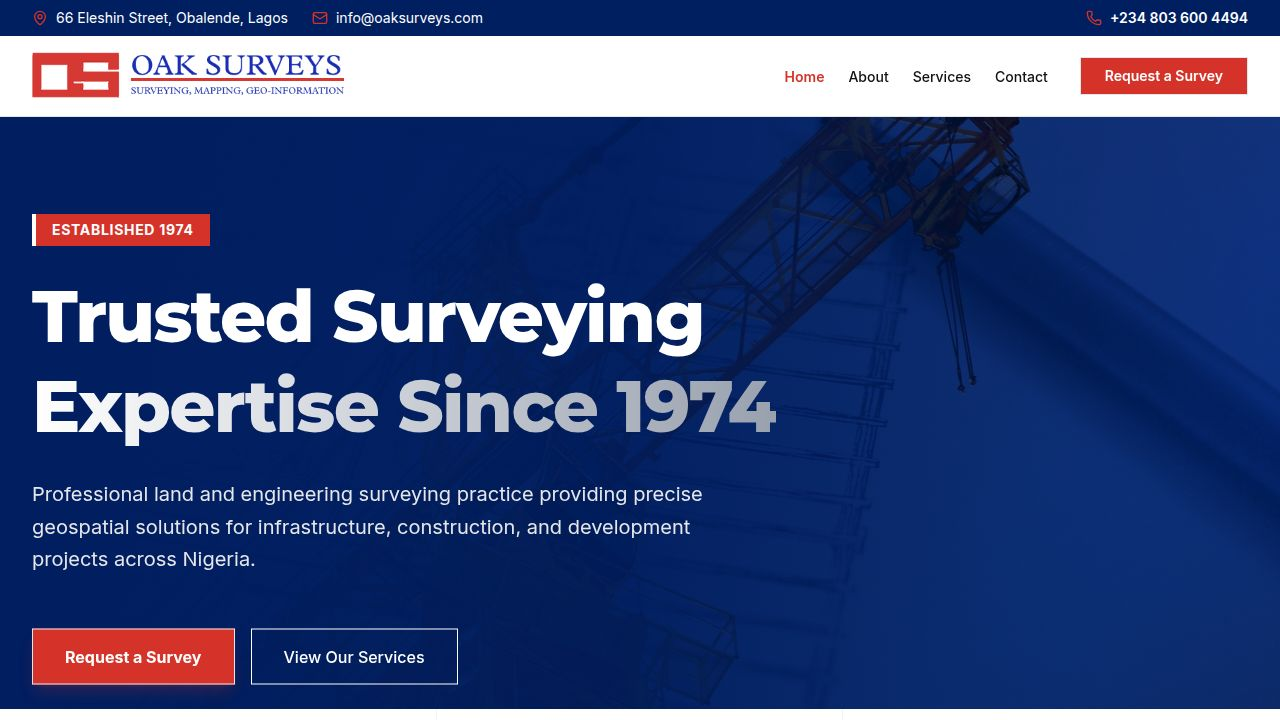
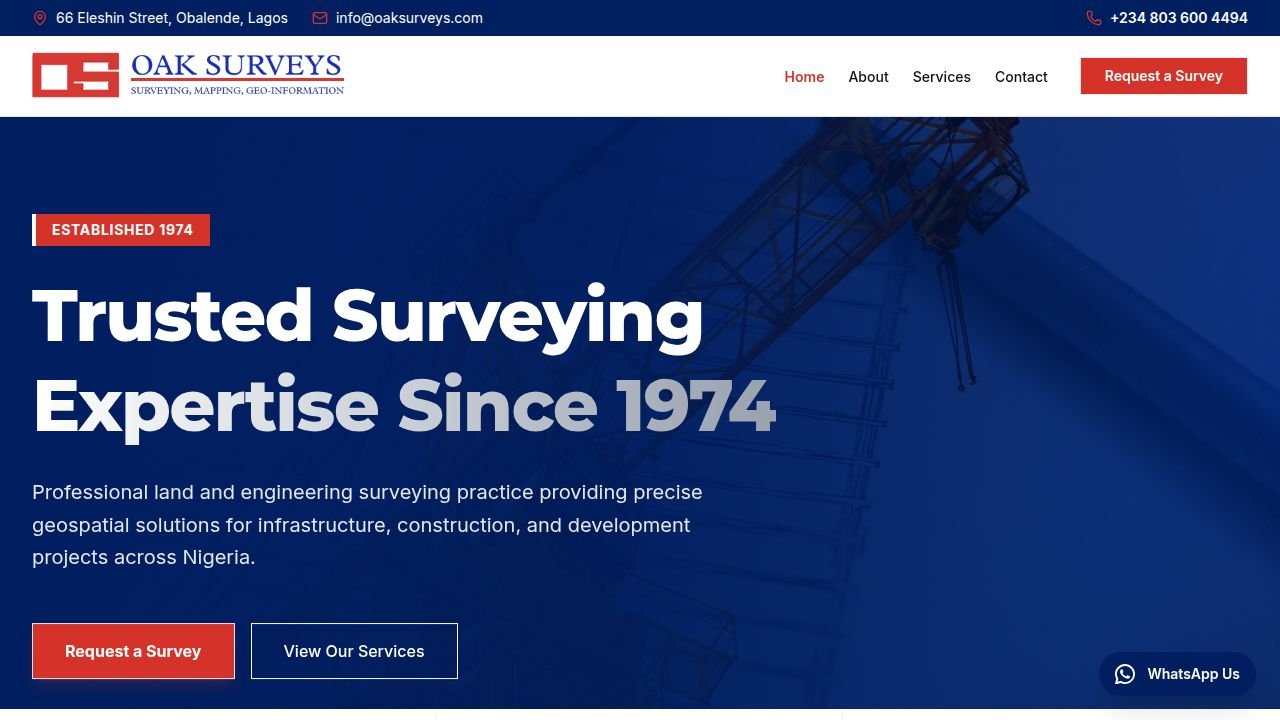
Update WhatsApp button styling for mobile and branding
Modify the WhatsApp button component to use a white icon, hide the text label on mobile devices, and ensure it aligns with the brand's color palette.

Replit-Commit-Author: Agent
Replit-Commit-Session-Id: e02cc839-bc37-4c7a-b699-28d2d8b55a1e
Replit-Commit-Checkpoint-Type: full_checkpoint
Replit-Commit-Event-Id: 5d697ba4-47f4-4b48-aa95-15f5fc0b9cb8
Replit-Commit-Screenshot-Url: https://storage.googleapis.com/screenshot-production-us-central1/37282cf5-2360-49fc-a2cd-0b220441129e/e02cc839-bc37-4c7a-b699-28d2d8b55a1e/VMwbjFY
Replit-Helium-Checkpoint-Created: true

diff --git a/client/src/components/WhatsAppButton.tsx b/client/src/components/WhatsAppButton.tsx
@@ -16,12 +16,12 @@ export function WhatsAppButton() {
         xmlns="http://www.w3.org/2000/svg"
         viewBox="0 0 24 24"
         fill="currentColor"
-        className="w-5 h-5 shrink-0 text-[#25D366]"
+        className="w-5 h-5 shrink-0 text-white"
       >
         <path d="M17.472 14.382c-.297-.149-1.758-.867-2.03-.967-.273-.099-.471-.148-.67.15-.197.297-.767.966-.94 1.164-.173.199-.347.223-.644.075-.297-.15-1.255-.463-2.39-1.475-.883-.788-1.48-1.761-1.653-2.059-.173-.297-.018-.458.13-.606.134-.133.298-.347.446-.52.149-.174.198-.298.298-.497.099-.198.05-.371-.025-.52-.075-.149-.669-1.612-.916-2.207-.242-.579-.487-.5-.669-.51-.173-.008-.371-.01-.57-.01-.198 0-.52.074-.792.372-.272.297-1.04 1.016-1.04 2.479 0 1.462 1.065 2.875 1.213 3.074.149.198 2.096 3.2 5.077 4.487.709.306 1.262.489 1.694.625.712.227 1.36.195 1.871.118.571-.085 1.758-.719 2.006-1.413.248-.694.248-1.289.173-1.413-.074-.124-.272-.198-.57-.347z" />
         <path d="M12 0C5.373 0 0 5.373 0 12c0 2.127.558 4.126 1.533 5.858L.057 23.535a.75.75 0 0 0 .916.908l5.82-1.527A11.945 11.945 0 0 0 12 24c6.627 0 12-5.373 12-12S18.627 0 12 0zm0 21.75a9.695 9.695 0 0 1-4.944-1.353l-.355-.21-3.676.964.981-3.584-.23-.368A9.699 9.699 0 0 1 2.25 12C2.25 6.615 6.615 2.25 12 2.25S21.75 6.615 21.75 12 17.385 21.75 12 21.75z" />
       </svg>
-      <span className="text-sm font-semibold whitespace-nowrap">WhatsApp Us</span>
+      <span className="text-sm font-semibold whitespace-nowrap hidden sm:inline">WhatsApp Us</span>
     </a>
   );
 }
